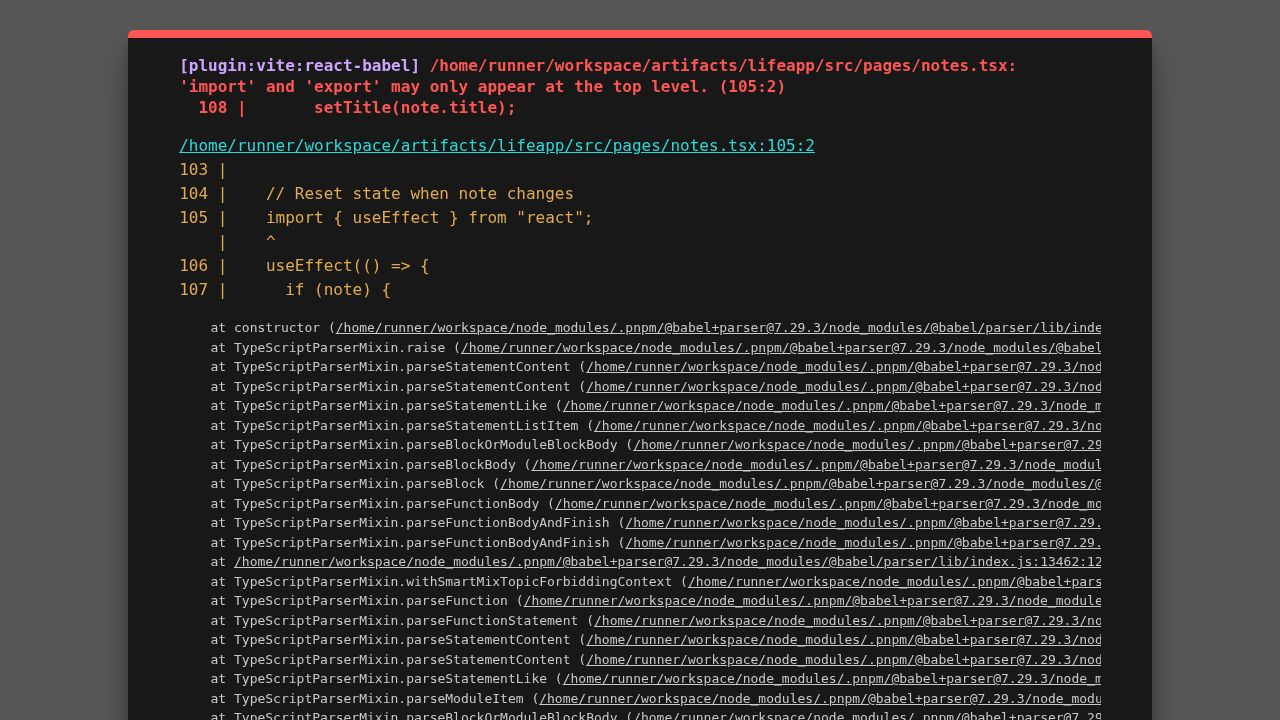
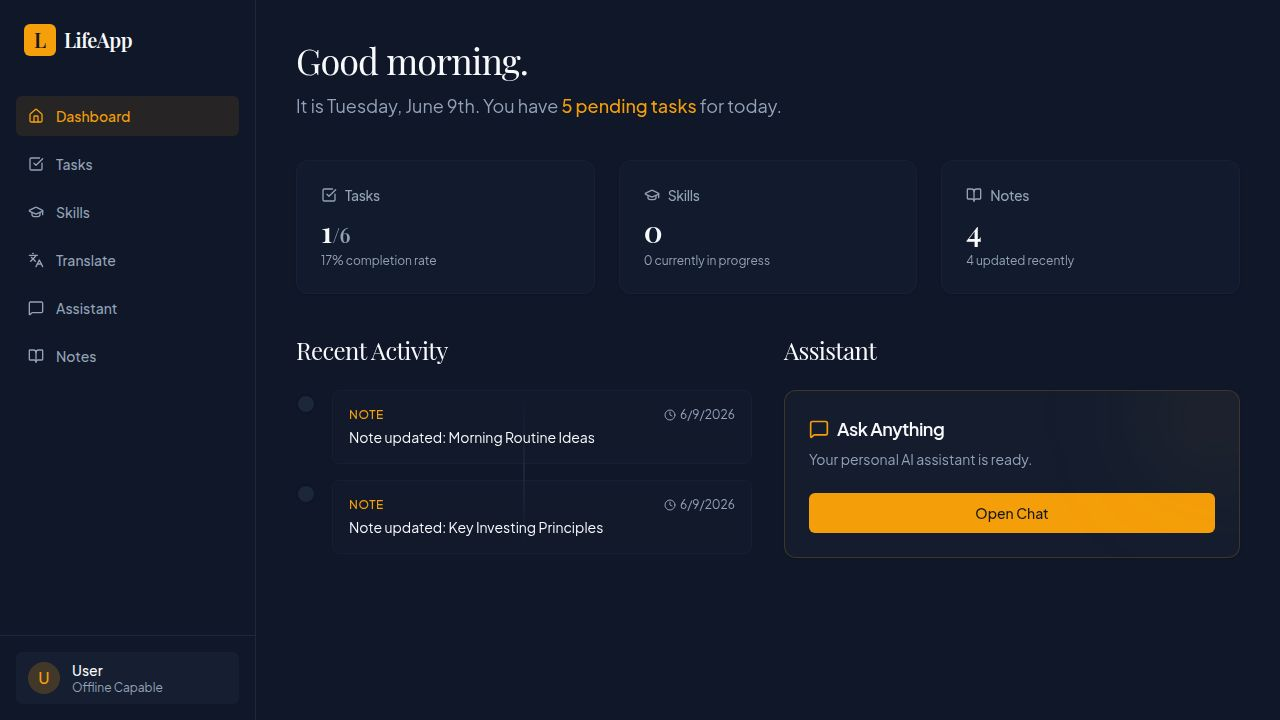
Improve AI chat and translation models for better performance
Update the AI chat and translation routes to use the gpt-4o model for improved responses and translation quality.

Replit-Commit-Author: Agent
Replit-Commit-Session-Id: 741ed8fa-2929-47c9-818a-c2ab01aadc79
Replit-Commit-Checkpoint-Type: full_checkpoint
Replit-Commit-Event-Id: a3c900b2-89b8-4ce5-8a7d-96c27f41452a
Replit-Commit-Screenshot-Url: https://storage.googleapis.com/screenshot-production-us-central1/84245b28-ae4b-45d8-901c-5af754931e43/741ed8fa-2929-47c9-818a-c2ab01aadc79/DFG9BjY
Replit-Helium-Checkpoint-Created: true

diff --git a/artifacts/api-server/src/routes/chat.ts b/artifacts/api-server/src/routes/chat.ts
@@ -76,7 +76,7 @@ async function getAIResponse(
         Authorization: `Bearer ${process.env.OPENAI_API_KEY}`,
       },
       body: JSON.stringify({
-        model: "gpt-4o-mini",
+        model: "gpt-4o",
         messages: [
           {
             role: "system",

diff --git a/artifacts/api-server/src/routes/translate.ts b/artifacts/api-server/src/routes/translate.ts
@@ -100,7 +100,7 @@ async function translateWithAI(text: string, targetLang: string, sourceLang: str
         Authorization: `Bearer ${process.env.OPENAI_API_KEY}`,
       },
       body: JSON.stringify({
-        model: "gpt-4o-mini",
+        model: "gpt-4o",
         messages: [
           {
             role: "system",